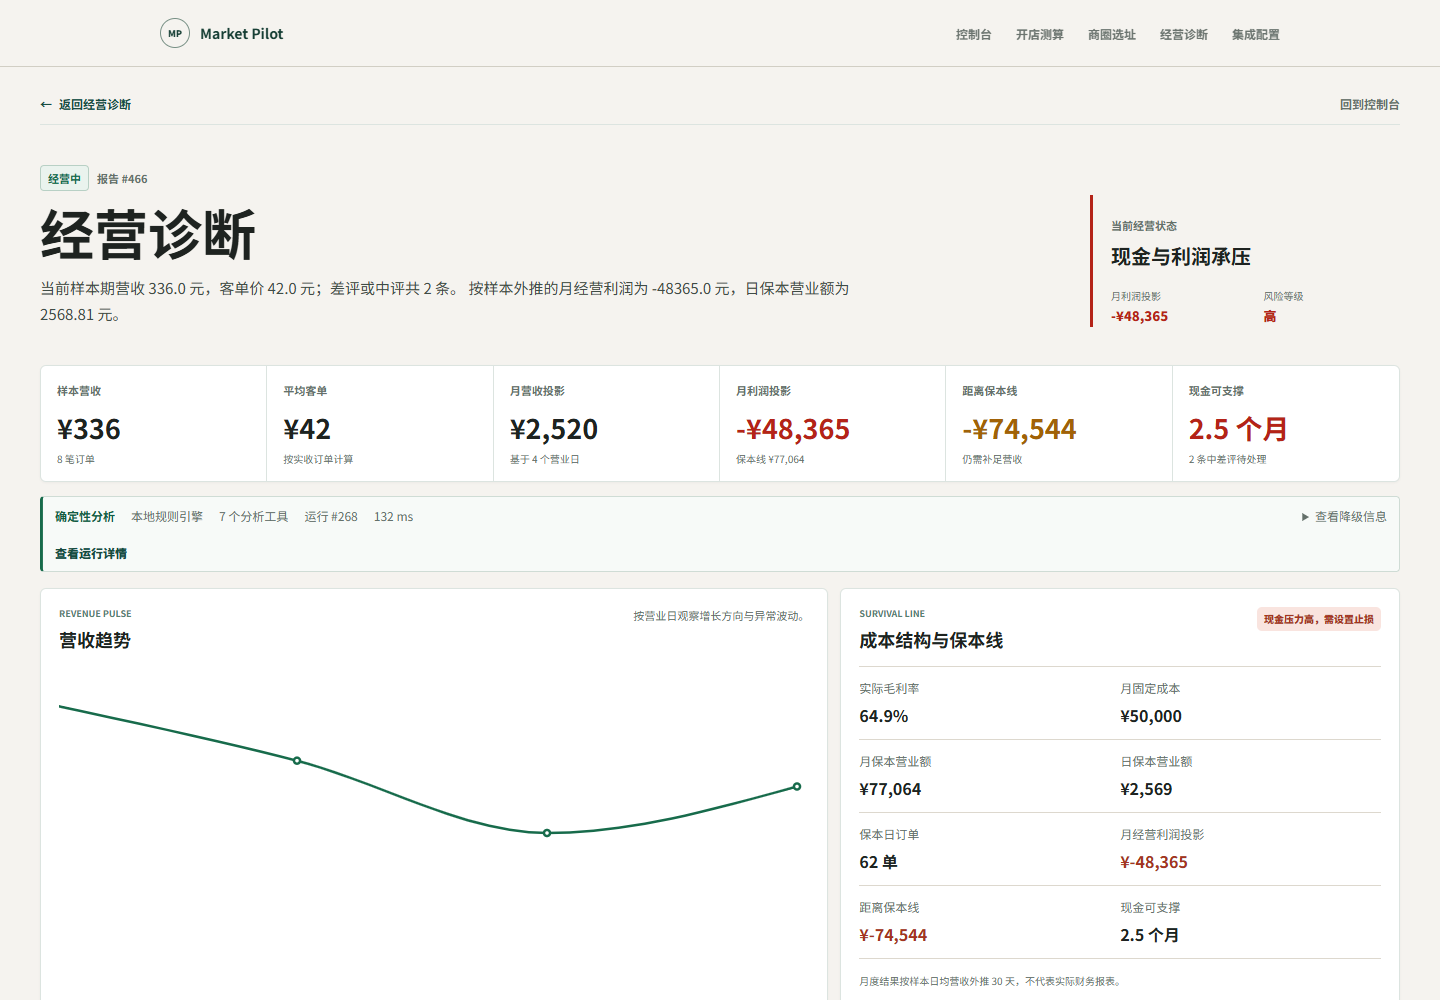
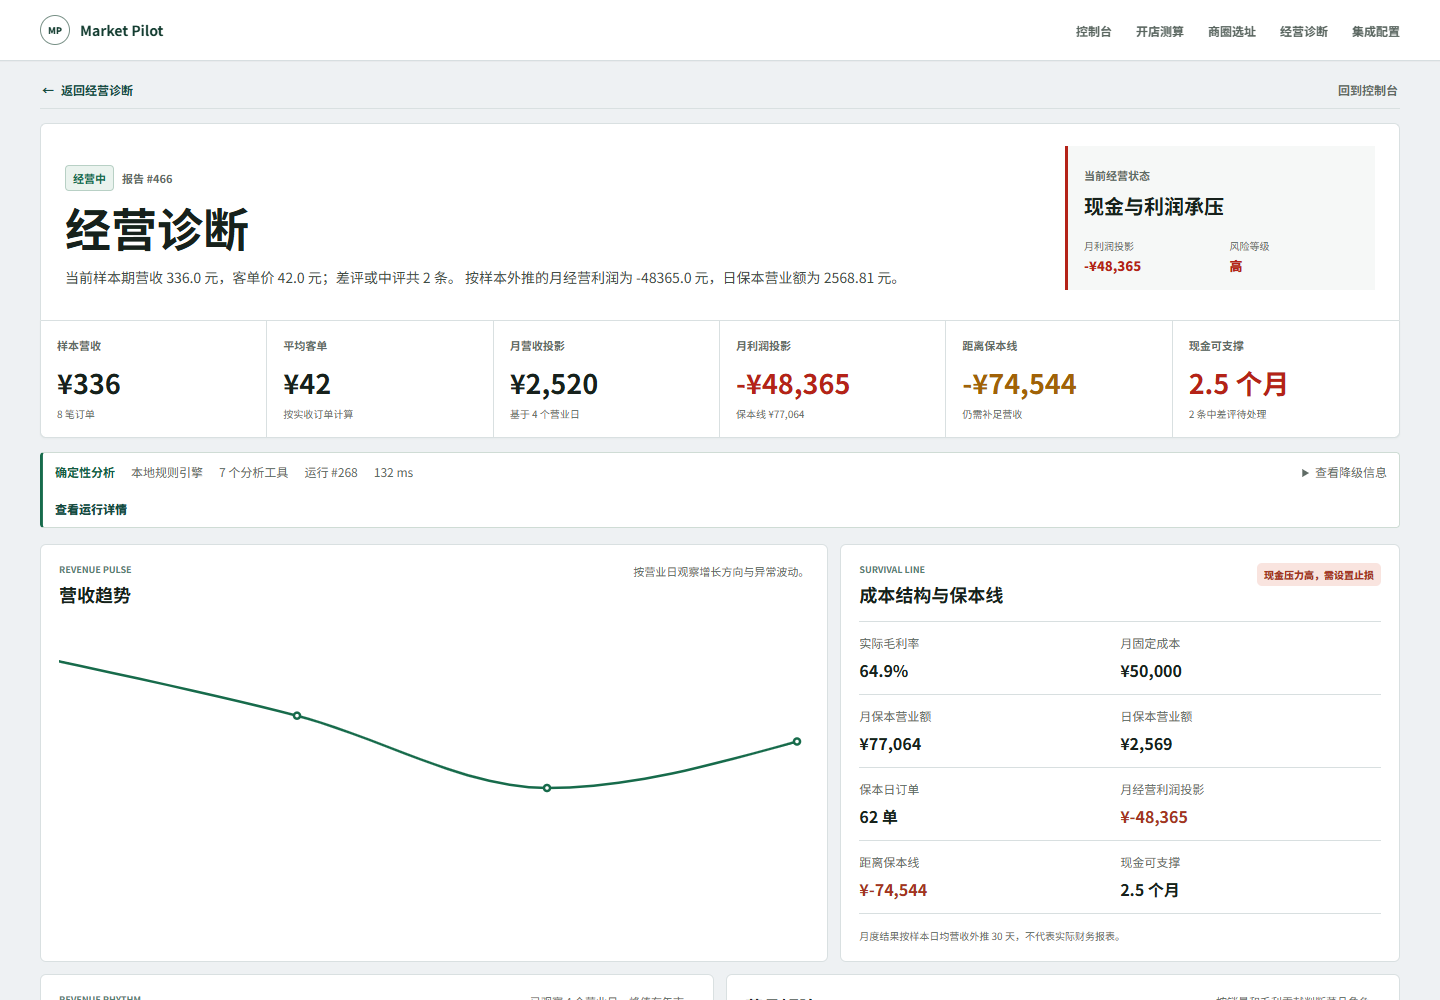
style: refine reports into a business console

diff --git a/frontend/app/globals.css b/frontend/app/globals.css
@@ -1,20 +1,20 @@
 :root {
   color-scheme: light;
-  --bg: #f5f3ef;
+  --bg: #f3f5f6;
   --panel: #ffffff;
-  --ink: #1e2320;
-  --muted: #64706a;
-  --line: #ddd8ce;
+  --ink: #17211c;
+  --muted: #5f6b65;
+  --line: #d8dfe0;
   --accent: #2f6f5e;
   --accent-strong: #184b3f;
-  --surface-subtle: #edf1ef;
+  --surface-subtle: #eef2f1;
   --ink-soft: #3f4c46;
   --success: #176b4b;
   --warning: #a16207;
   --danger: #b42318;
   --info: #2463a6;
-  --report-line: #dce4e0;
-  --report-shadow: 0 1px 2px rgb(20 38 30 / 4%);
+  --report-line: #d9e0e1;
+  --report-shadow: 0 1px 2px rgb(15 23 20 / 3%);
 }
 
 
@@ -2110,9 +2110,29 @@ h1 {
 }
 
 /* Market Pilot operating workbench */
+.report-page {
+  min-height: calc(100vh - 60px);
+  background: #eef1f3;
+}
+
+.app-navigation-report {
+  border-color: #d7dee0;
+  background: rgb(255 255 255 / 96%);
+  box-shadow: 0 1px 0 rgb(17 36 28 / 3%);
+}
+
+.app-navigation-report .app-navigation-inner {
+  width: min(1360px, calc(100% - 48px));
+  min-height: 60px;
+}
+
+.app-navigation-report .app-navigation-brand { color: #143d31; }
+.app-navigation-report nav a { color: #59655f; }
+
 .report-shell {
   width: min(1360px, calc(100% - 48px));
-  padding: 28px 0 80px;
+  min-height: 0;
+  padding: 20px 0 72px;
 }
 
 .report-layout {
@@ -2121,16 +2141,21 @@ h1 {
 
 .report-context-nav {
   margin: 0;
-  padding: 0 0 12px;
+  padding: 0 2px 10px;
   border-color: var(--report-line);
 }
 
 .report-overview {
   display: grid;
   grid-template-columns: minmax(0, 1fr) 310px;
-  gap: 44px;
+  gap: 36px;
   align-items: end;
-  padding: 26px 0 24px;
+  margin-bottom: -14px;
+  padding: 22px 24px 30px;
+  border: 1px solid var(--report-line);
+  border-bottom: 0;
+  border-radius: 6px 6px 0 0;
+  background: #ffffff;
 }
 
 .report-meta {
@@ -2153,7 +2178,7 @@ h1 {
 
 .report-overview h1 {
   margin: 0;
-  font-size: clamp(34px, 4vw, 54px);
+  font-size: clamp(32px, 3.2vw, 46px);
   font-weight: 760;
   letter-spacing: 0;
   line-height: 1.08;
@@ -2163,13 +2188,14 @@ h1 {
   max-width: 860px;
   margin: 14px 0 0;
   color: var(--ink-soft);
-  font-size: 15px;
-  line-height: 1.72;
+  font-size: 14px;
+  line-height: 1.68;
 }
 
 .report-health {
-  padding: 16px 0 2px 18px;
+  padding: 15px 16px;
   border-left: 3px solid var(--warning);
+  background: #f6f8f7;
 }
 
 .report-health-stable { border-color: var(--success); }
@@ -2186,13 +2212,13 @@ h1 {
   grid-template-columns: repeat(6, minmax(0, 1fr));
   overflow: hidden;
   border: 1px solid var(--report-line);
-  border-radius: 6px;
+  border-radius: 0 0 6px 6px;
   background: var(--panel);
   box-shadow: var(--report-shadow);
 }
 
 .report-shell .metric-item {
-  min-height: 102px;
+  min-height: 96px;
   align-content: start;
   gap: 5px;
   padding: 16px;
@@ -2213,7 +2239,7 @@ h1 {
   border: 1px solid #cddbd4;
   border-left: 3px solid var(--success);
   border-radius: 4px;
-  background: #f7faf8;
+  background: #ffffff;
 }
 
 .report-shell .agent-run-status > div { gap: 6px 16px; }
@@ -2244,7 +2270,7 @@ h1 {
   border: 1px solid var(--report-line);
   border-radius: 6px;
   background: var(--panel);
-  box-shadow: var(--report-shadow);
+  box-shadow: none;
 }
 
 .report-grid-menu-stack .report-section { height: auto; }
@@ -2362,6 +2388,8 @@ h1 {
 }
 
 @media (max-width: 640px) {
+  .app-navigation-report .app-navigation-inner { width: 100%; padding-inline: 12px; }
+  .app-navigation-report nav { width: calc(100vw - 24px); }
   .report-shell { width: min(100% - 24px, 560px); padding-top: 18px; }
   .report-overview { grid-template-columns: 1fr; gap: 20px; padding-top: 18px; }
   .report-overview h1 { font-size: 34px; }

diff --git a/frontend/components/AppNavigation.tsx b/frontend/components/AppNavigation.tsx
@@ -33,8 +33,10 @@ export function AppNavigation() {
 
   if (pathname === "/") return null;
 
+  const reportNavigation = pathname.startsWith("/analysis/");
+
   return (
-    <header className="app-navigation">
+    <header className={`app-navigation${reportNavigation ? " app-navigation-report" : ""}`}>
       <div className="app-navigation-inner">
         <Link className="app-navigation-brand" href="/" aria-label="返回 Market Pilot 控制台">
           <span>MP</span>

diff --git a/frontend/app/analysis/[id]/page.tsx b/frontend/app/analysis/[id]/page.tsx
@@ -12,8 +12,10 @@ export default async function AnalysisPage({ params }: AnalysisPageProps) {
   const report = await getAnalysis(Number(id));
 
   return (
-    <main className="shell report-shell">
-      <AgentReport report={report} />
-    </main>
+    <div className="report-page">
+      <main className="shell report-shell">
+        <AgentReport report={report} />
+      </main>
+    </div>
   );
 }
